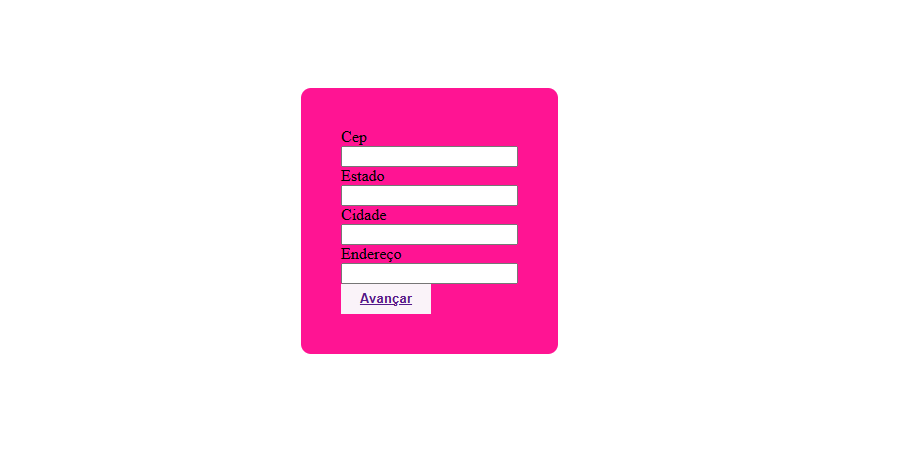
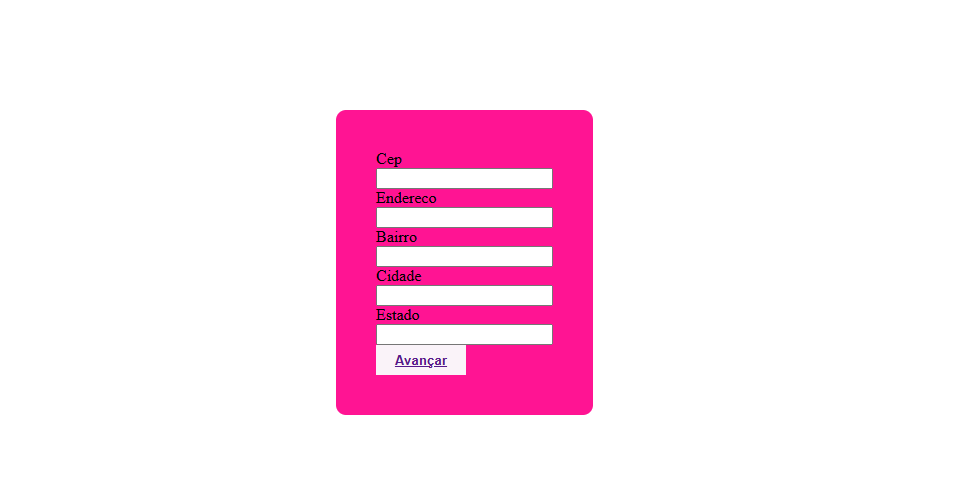
novas imagem

Changed region(s): [[0.3091, 0.185, 0.649, 0.8326]]

diff --git a/endereco.html b/endereco.html
@@ -13,11 +13,13 @@
         <form action="">
             <label for="">Cep</label>
             <input type="text">
-            <label for="">Estado</label>
+            <label for="">Endereco</label>
+            <input type="text">
+            <label for="">Bairro</label>
             <input type="text">
             <label for="">Cidade</label>
             <input type="text">
-            <label for="">Endereço</label>
+            <label for="">Estado</label>
             <input type="text">
             <button> <a href="final.html"> Avançar </a></button>
 </body>
